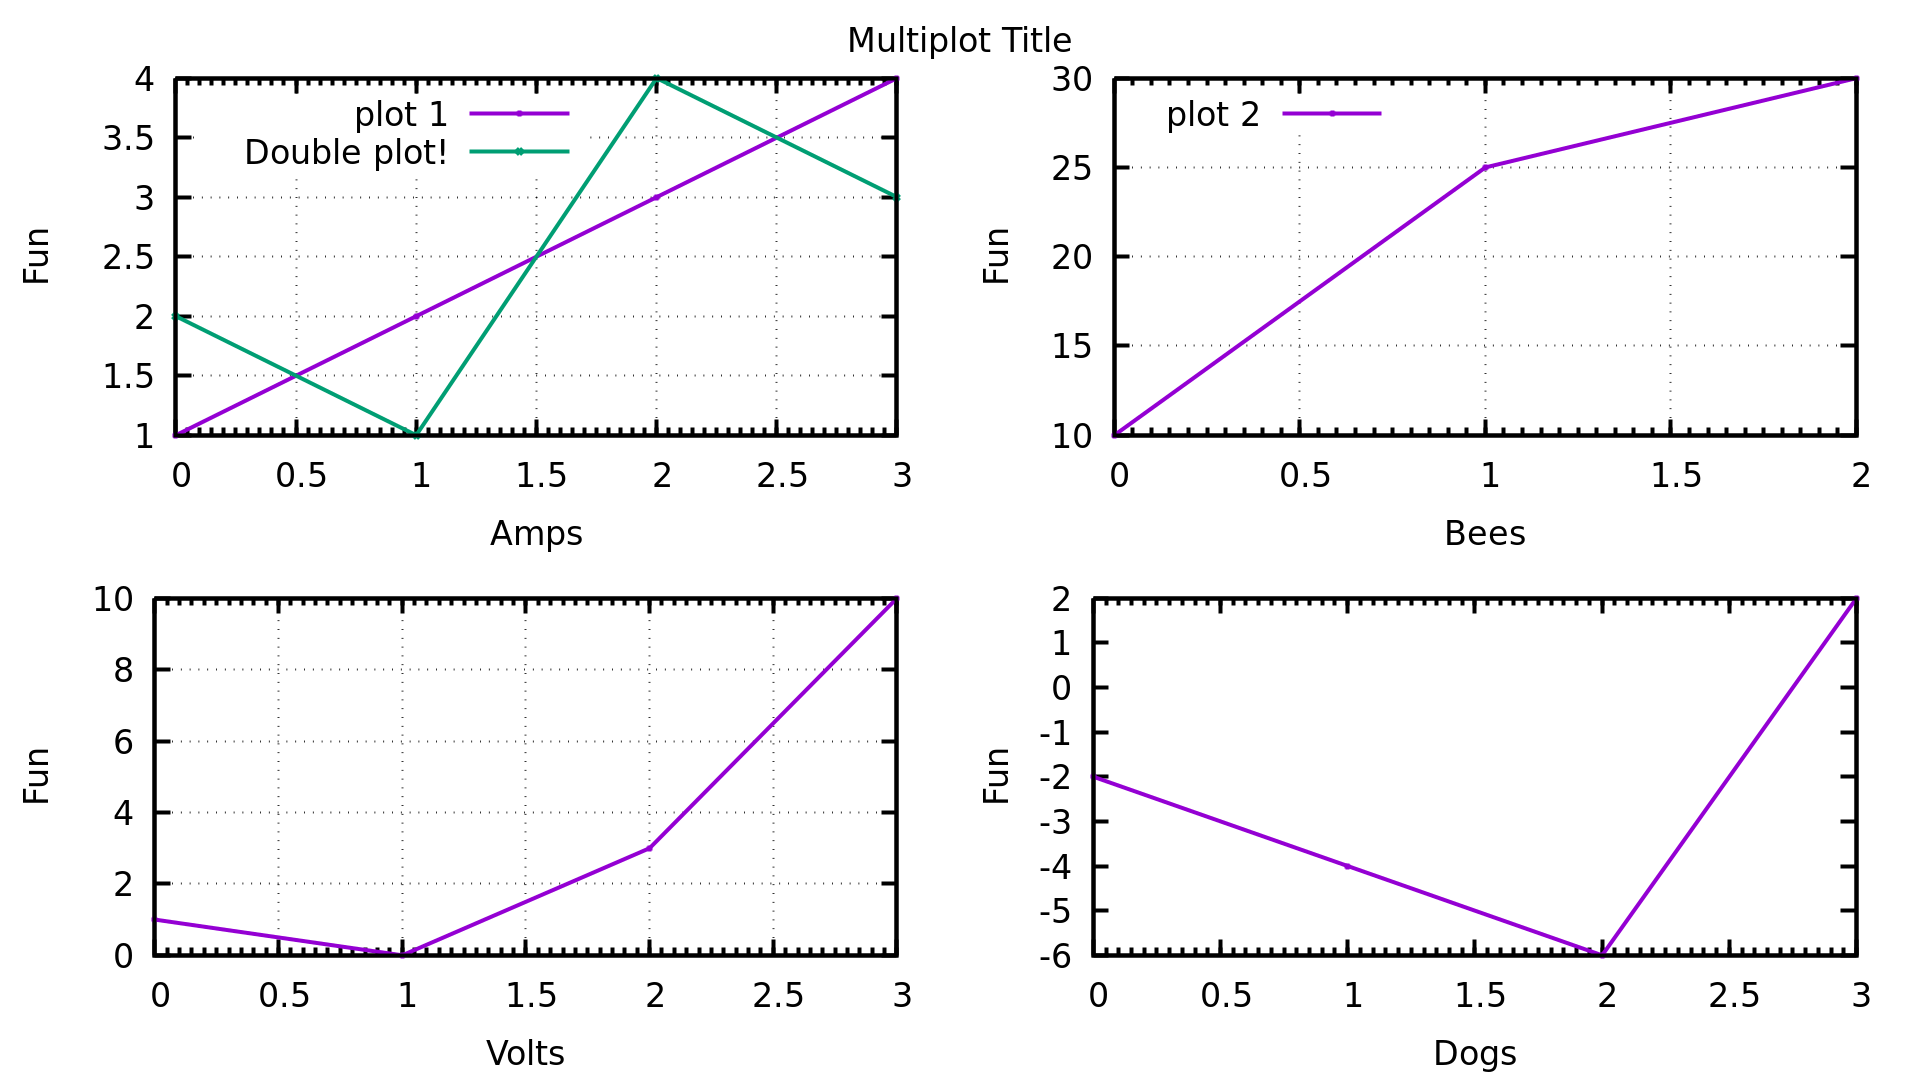
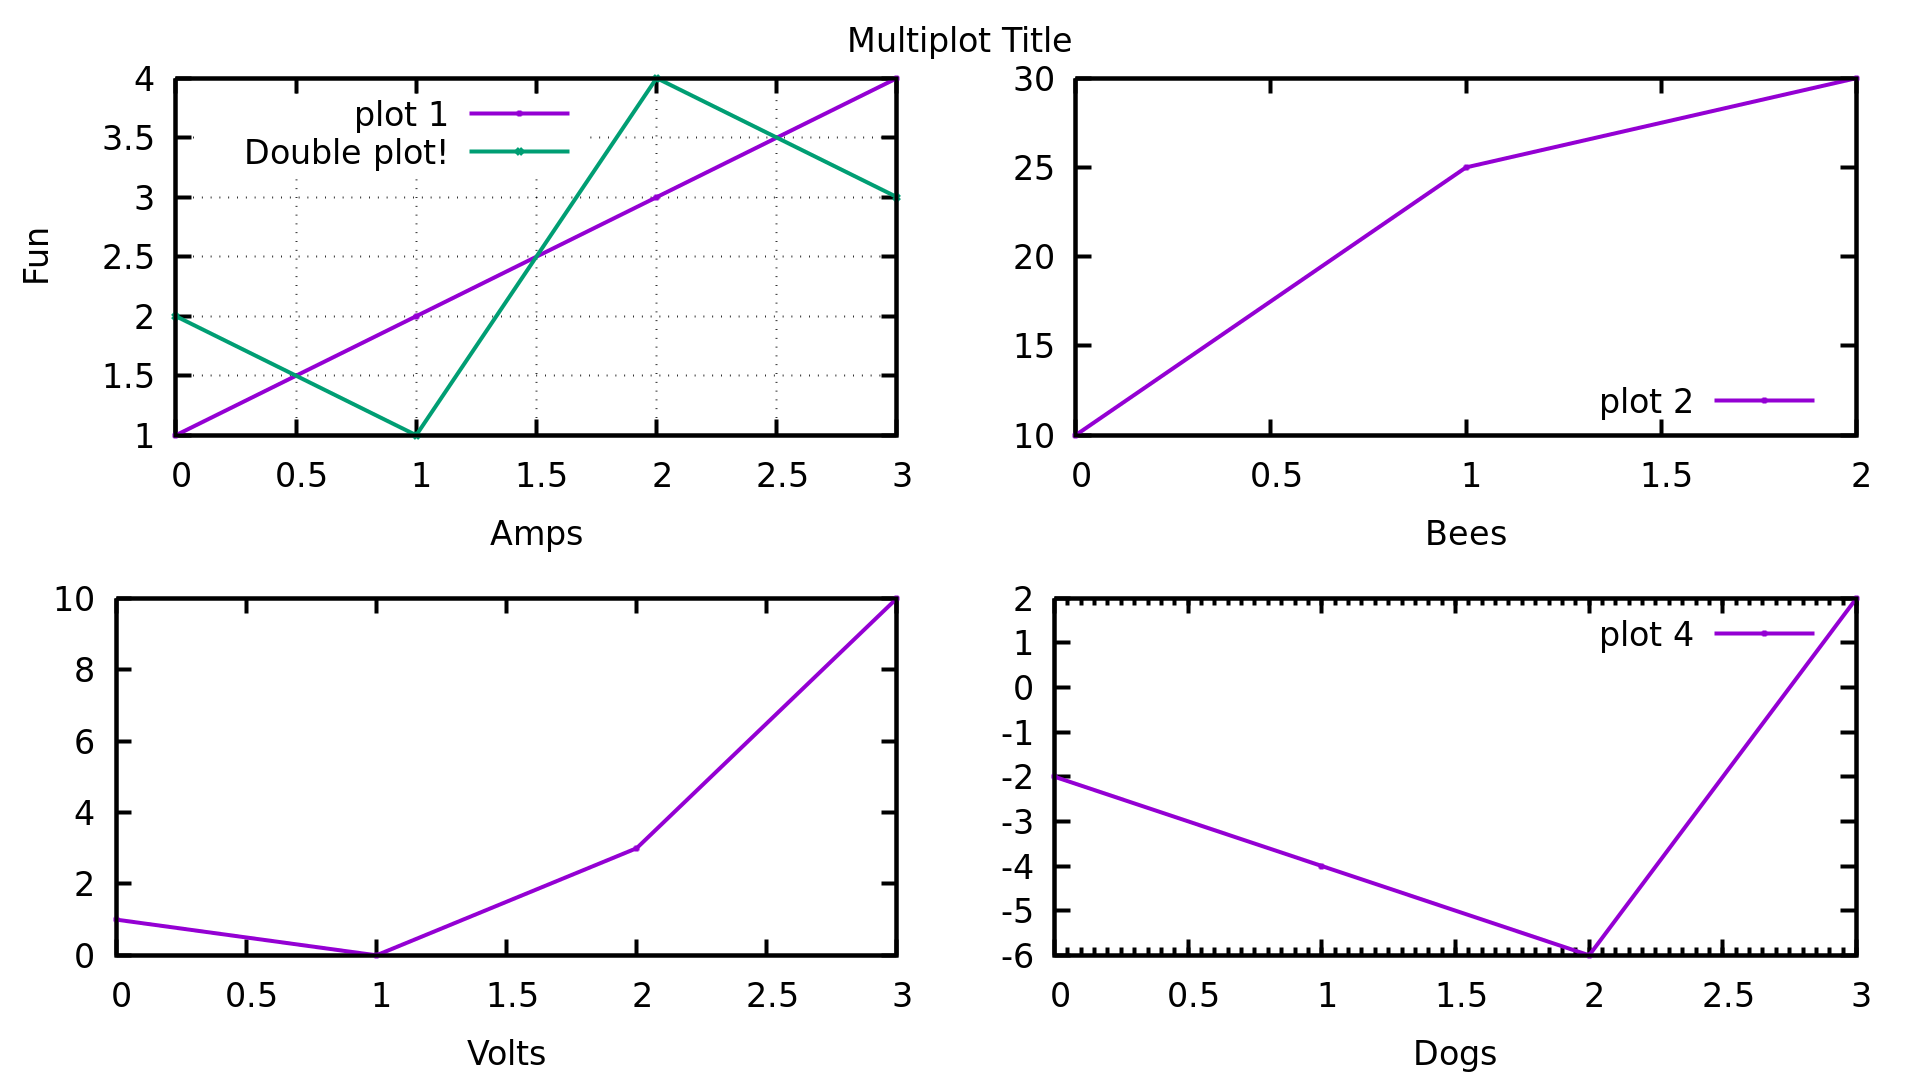
update multiplot

diff --git a/README.md b/README.md
@@ -92,18 +92,18 @@ For reference. Forgive the compactness.
 	;;(plt:send-plot-options :terminal "qt lw 1 font ',12' size 1920,1080")
 	(plt:string-code-to-2d)
 	(plt:multiplot "layout 3,3 title 'Specialized 2D Plots'"
-                   (list '((1 3 0 6 5) (2 5 0 5 4.5) (3 4.5 3 8 6)) "w candle title 'XMR'"
-                         :mxtics "default" :xtics "auto" :xrange "[0:4]" :boxwidth "0.2" :xlabel "'Time'" :ylabel "'$$$'" :title "'Candlestick'" :key "top left" :grid "")
-                   (list :style "histogram cluster gap 1" :style "data histogram" :style\ fill "pattern 1"
+                   (list :title "'Candlestick'" '((1 3 0 6 5) (2 5 0 5 4.5) (3 4.5 3 8 6)) "w candle title 'XMR'"
+                         :mxtics "default" :xtics "auto" :xrange "[0:4]" :boxwidth "0.2" :xlabel "'Time'" :ylabel "'$$$'" :key "top left" :grid "")
+                   (list :title "'Histogram'" :style "histogram cluster gap 1" :style "data histogram" :style\ fill "pattern 1"
                          '(4 2 9 7) "u 1 ti 'histo 1'" '(9 8 2 4) "u 1 ti 'histo 2'" '(4 4 5 5) "u 1 ti 'histo 3'"
-                         :boxwidth "1" :ylabel "'Stigs'" :xrange "[-1:4]" :yrange "[0:12]" :title "'Histogram'" :xtics "('before' 0, 'during' 1, 'after' 2, 'GT' 3)")
-                   (list '(1 0 3 10) "w lp ti 'small axis' axes x1y1" '(1000 700 200 0) "w lp ti 'large axis' axes x1y2" :xlabel "'Volts'" :ytics "nomirror" :y2tics "" :title "'Multiaxis'" :ylabel "'Current 1'" :y2label "'Current 2'" :grid "")
-                   (list :parametric "" "cosh(t),sin(t) w lp title 'cosh(t),sin(t)'" :title "'Parametric Plot'" :xlabel "'X'" :ylabel "'Y'" :grid "")
-                   (list "sample [*:1] cos(x), [1:3] 0.3*sin(x*x), [3:*] airy(-x) w lp" :title "'Piecewise'" :yrange "[-1.5:1.5]" :xlabel "'Angle'" :ylabel "'a.u.'")
-                   (list :style "boxplot outliers pt 7" '(1 2 3 4 5 6 11) "u (0):1 w boxplot notitle" '(2 4 5 6 3 11 2 4) "u (1):1 w boxplot notitle" :title "'Box Plot'" :xtics "('A' 0, 'B' 1)")
-                   (list '(1 2 2.3 2.4 2.5 2.55 2.8 3.2 4) '(5 4 4.3 4.9 3.5 4.2 5.3 4.1 4) "u 1:2:xtic(\"\"):ytic(\"\") w p ps 3 notitle" :xtics "out scale 2" :ytics "out scale 2" :xrange "[0:5]" :yrange "[3:6]" :title "'Rugplot'")
-                   (list :spiderplot "" :style "spiderplot fs transparent solid border lw 3.0" :style "data spiderplot" :for "[i=1:5] paxis i range [0:10]" :paxis "2 label offset 0.2,0.4" :paxis "5 label offset -0.2,0.4" :paxis "1 tics" :for "[i=2:5] paxis i tics format \"\""  '(\"STR\" 4 1) "title columnhead" '(\"WIS\" 9 5) "title columnhead" '(\"INT\" 1 8) "title columnhead" '(\"CHR\" 1 6) "title columnhead" '(\"STA\" 4 3) "title columnhead" :title "'Spiderplot'" :grid "")
-                   (list '((250 3 12 0.4) (275 4 5 0.1) (300 5 1 1)) "w xyerrorbars title 'That''s life'" :title "'Points with Error Bars'" :xrange "[225:325]" :yrange "[0:10]" :xlabel "'Temperature (K)'" :ylabel "'Conductivity (S/m)'")))
+                         :boxwidth "1" :ylabel "'Stigs'" :xrange "[-1:4]" :yrange "[0:12]" :xtics "('before' 0, 'during' 1, 'after' 2, 'GT' 3)")
+                   (list :title "'Multiaxis'" '(1 0 3 10) "w lp ti 'small axis' axes x1y1" '(1000 700 200 0) "w lp ti 'large axis' axes x1y2" :xlabel "'Volts'" :ytics "nomirror" :y2tics "" :ylabel "'Current 1'" :y2label "'Current 2'" :grid "")
+                   (list :title "'Parametric Plot'" :parametric "" "cosh(t),sin(t) w lp title 'cosh(t),sin(t)'" :xlabel "'X'" :ylabel "'Y'" :grid "")
+                   (list :title "'Piecewise'" "sample [*:1] cos(x), [1:3] 0.3*sin(x*x), [3:*] airy(-x) w lp" :yrange "[-1.5:1.5]" :xlabel "'Angle'" :ylabel "'a.u.'")
+                   (list :title "'Box Plot'" :style "boxplot outliers pt 7" '(1 2 3 4 5 6 11) "u (0):1 w boxplot notitle" '(2 4 5 6 3 11 2 4) "u (1):1 w boxplot notitle" :xtics "('A' 0, 'B' 1)")
+                   (list :title "'Rugplot'" '(1 2 2.3 2.4 2.5 2.55 2.8 3.2 4) '(5 4 4.3 4.9 3.5 4.2 5.3 4.1 4) "u 1:2:xtic(\"\"):ytic(\"\") w p ps 3 notitle" :xtics "out scale 2" :ytics "out scale 2" :xrange "[0:5]" :yrange "[3:6]")
+                   (list :title "'Spiderplot'" :spiderplot "" :style "spiderplot fs transparent solid border lw 3.0" :style "data spiderplot" :for "[i=1:5] paxis i range [0:10]" :paxis "2 label offset 0.2,0.4" :paxis "5 label offset -0.2,0.4" :paxis "1 tics" :for "[i=2:5] paxis i tics format \"\""  '(\"STR\" 4 1) "title columnhead" '(\"WIS\" 9 5) "title columnhead" '(\"INT\" 1 8) "title columnhead" '(\"CHR\" 1 6) "title columnhead" '(\"STA\" 4 3) "title columnhead" :grid "")
+                   (list :title "'Points with Error Bars'" '((250 3 12 0.4) (275 4 5 0.1) (300 5 1 1)) "w xyerrorbars title 'That''s life'" :xrange "[225:325]" :yrange "[0:10]" :xlabel "'Temperature (K)'" :ylabel "'Conductivity (S/m)'")))
 ```
 ![niche-2d-plotting](./resources/niche-2d.png "Specialized 2D Plotting")
 
@@ -172,7 +172,7 @@ Multiplot works by wrapping multiple plots inside one function call. The 'layout
     (plt:multiplot "layout 2,2 title 'Multiplot Title'"
                    (list '(1 2 3 4) "w lp title 'plot 1'" '(2 1 4 3) "w lp title 'Double plot!'"
                          :xlabel "'Amps'" :ylabel "'Fun'" :key "top left" :grid "")
-                   (list '(10 25 30) "w lp title 'plot 2'" :xlabel "'Bees'")
+                   (list '(10 25 30) "w lp title 'plot 2'" :xlabel "'Bees'" :key "bottom right")
                    (list '(1 0 3 10) "w lp title 'plot 3'" :xlabel "'Volts'" :key "unset")
                    (list '(-2 -4 -6 2) "w lp title 'plot 4'" :xlabel "'Dogs'" :grid "unset" :mxtics "10")))
 ```
@@ -234,8 +234,8 @@ Multiplot works by wrapping multiple plots inside one function call. The 'layout
 # Just Let Me Use Gnuplot Syntax Dangit
 ```
 (plt:send-strings (list "set terminal qt enhanced font 'arial,30' size 1920,1080"
-                        "plot './resources/quick-example-file.txt' w lp u 1:2 title 'Override'"
-                        "set xlabel 'Proof of Concept' font ',20'"))
+                        "set xlabel 'Proof of Concept' font ',20'"
+                        "plot './resources/quick-example-file.txt' u 1:2 w lp title 'Override'"))
 ```
 
 ## License
